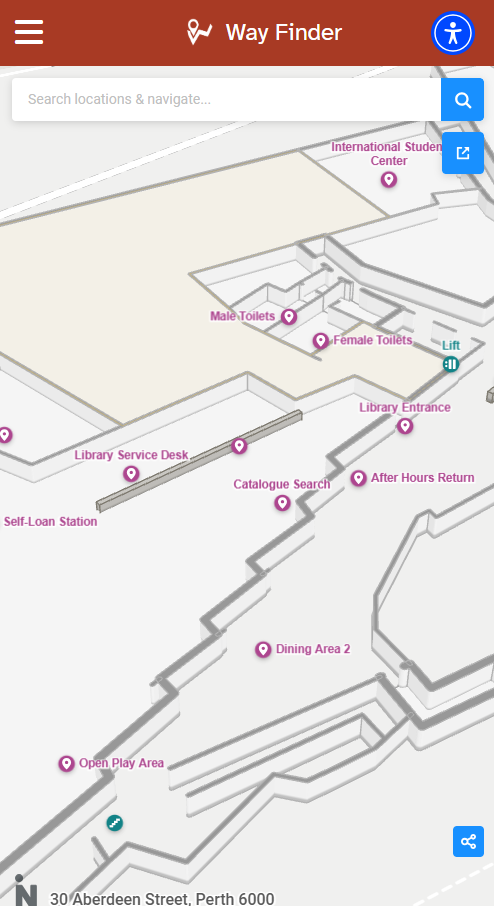
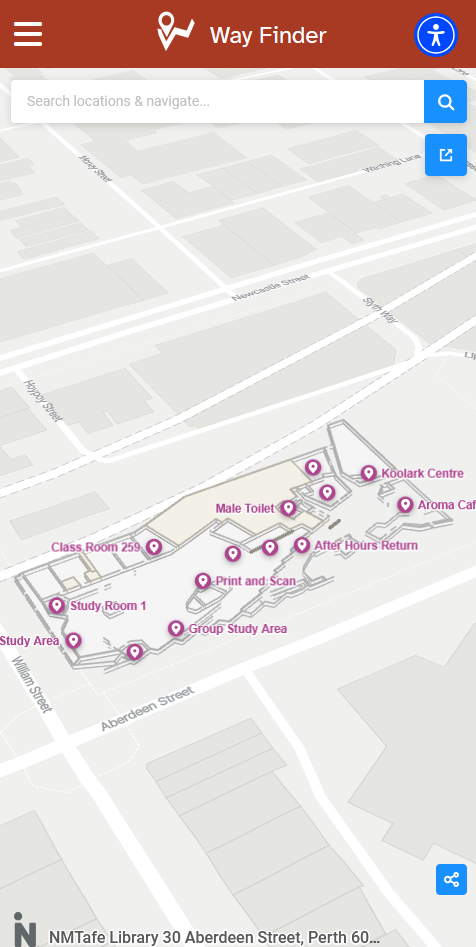
fixed:spelling mistakes and added new screenshot

diff --git a/style.css b/style.css
@@ -1,7 +1,7 @@
 /******************************************************************
-Theme Name: WayFinder App
+Theme Name: Way Finder App
 Theme URI: http://www.devtheme.com.au
-Description: Wayfinder is a mobile-friendly web application designed to guide users through the interior of the TAFE library building.
+Description: Way Finder is a mobile-friendly web application designed to guide users through the interior of the TAFE library building.
 Author: WayFinder Team
 Author URI: http://www.devtheme.com.au
 Version: 1.0

diff --git a/page-contact.php b/page-contact.php
@@ -9,12 +9,11 @@
                         <li class="contact-info"><img src="<?= get_template_directory_uri(); ?>/img/icon/icon_phone.png" alt="icon of phone"> 08 9427 1450</li>
                         <li class="contact-info"><img src="<?= get_template_directory_uri(); ?>/img/icon/icon_map.png" alt="icon of map pointer"> 30 Aberdeen Street, Perth 6000</li>
                         <li class="contact-info"><img src="<?= get_template_directory_uri(); ?>/img/icon/icon_clock.png" alt="icon of clock"> Mon - Thu: 8:00am - 6:00pm</li>
-                        <li class="contact-info"><pre>     Fri: 8:00am - 5:00pm</pre></li>
+                        <li class="contact-info"><pre>     Fri: 8:00am - 5:00pm</pre></li>
                         <li class="contact-info"><pre>     (During Semester)</pre></li>
                         <li class="contact-info"><pre>     Closed on Public Holidays</pre></li>
                     <li id="contact-text">For term/semester break hours, <br> please visit our library website.</li>
                     <li id="contact-library-link"><a href="https://guides.dtwd.wa.gov.au/nmtafe-library">TAFE Library Website<i class="fa-solid fa-angles-right"></i></a></li>
-    <!--                    <li id="contact-library-link"><a href="https://guides.dtwd.wa.gov.au/nmtafe-library">TAFE Library Website<i class="fa-solid fa-angle-right"></i></a></li>-->
                 </ul>
 
             </div>

diff --git a/page-finditem.php b/page-finditem.php
@@ -4,8 +4,8 @@
             <img class="background-vector" src="<?php echo get_template_directory_uri(); ?>/img/category-background.png" alt="classroom 260. Desks and chairs with computers, whiteboards and projector.">
             <h1>Find Library Items</h1>
             <p>Students can browse the Library Catalogue with the computer opposite the Service Desk. 
-            This tool enables the user to serach by title, author, subject or keywords 
-            which can befurther refined with advanced filters to check an item's location and availability.</p>
+            This tool enables the user to search by title, author, subject or keywords
+            which can be further refined with advanced filters to check an item's location and availability.</p>
             <h2>Note: This Catalogue can be accessed from the North Metropolitan TAFE Library website at any time.</h2>
             <div class="image-container">
                 <img src="<?= get_template_directory_uri(); ?>/img/findItem.png" alt="computer on a table with sign of Library Catalogue." class="category-images">

diff --git a/page-aboriginal.php b/page-aboriginal.php
@@ -8,7 +8,7 @@
                 by providing support in careers, training, and employment opportunities.<br><br> 
                 Through tailored programs and mentorship, the team fosters skills development and builds confidence,
                 helping young individuals connect with their cultural identity 
-                while navigating pathways to sustainable futures in their communities. </p>
+                while navigating pathways to sustainable futures in their communities.</p>
 
             <div class="aboriginal-image-container">
                 <img src="<?= get_template_directory_uri(); ?>/img/aboriginal.png" alt="printer and scanner." class="category-images">

diff --git a/page-feedback.php b/page-feedback.php
@@ -3,7 +3,6 @@
 get_header();
 ?>
 
-
         <div class="feedBacktop">
             <form action="https://formsubmit.co/01f3e4b2a9a1959fa602647b3409d2f9" method="POST" id="theForm">
                 <input type="hidden" name="_next" value="http://localhost/wordpress/thank-you">
@@ -35,9 +34,6 @@ get_header();
                     </div>
                    </div>
             </form>
-
-
-
         </div>
     </div>  <!-- wrapper -->
 </body>
